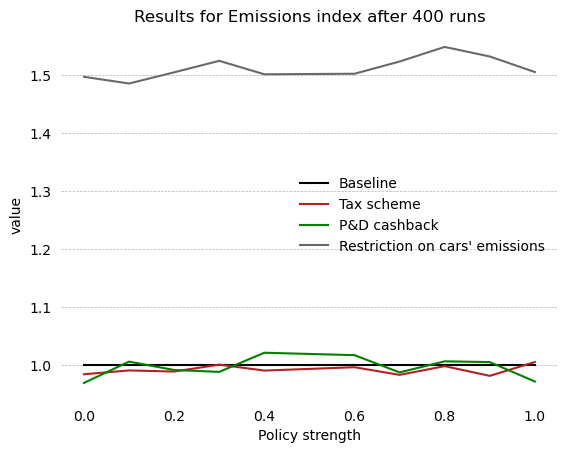
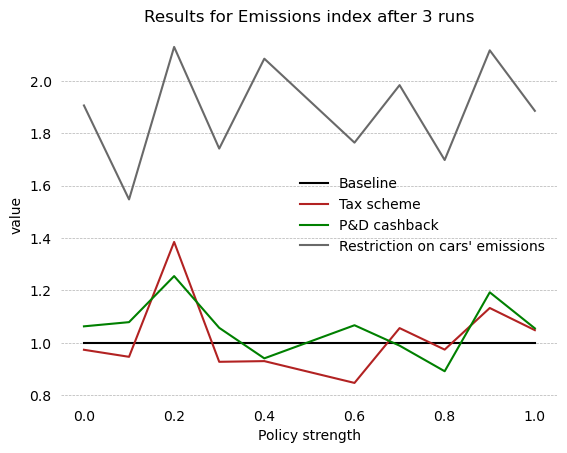
Adjusting e_max parameters: (2 processes: (a) limit sales, (b) discount or extra tax

diff --git a/main.py b/main.py
@@ -182,36 +182,36 @@ if __name__ == '__main__':
     save_data = True
     p = r'output'
     t0 = time.time()
-    m = 3
+    m = 100
     # Number of cpus that will run simultaneously
     cpus = 8
     # benchmark(m)
     t = datetime.datetime.utcnow().isoformat().replace(':', '_')
 
-    paramaters_to_test = {'prob_adoption': {'min': .2, 'max': .3, 'interval': 3, '_type': 'f'},
-                          'mu_max': {'min': .05, 'max': .2, 'interval': 4, '_type': 'f'},
-                          'rd_min': {'min': 10000, 'max': 90000, 'interval': 5, '_type': 'i'},
-                          'epsilon': {'min': .05, 'max': .2, 'interval': 3, '_type': 'f'},
-                          'omega': {'min': .3, 'max': .7, 'interval': 3, '_type': 'f'},
-                          'time_adoption': {'min': 5, 'max': 15, 'interval': 3, '_type': 'i'},
-                          'lambda': {'min': .05, 'max': .35, 'interval': 3, '_type': 'f'},
-                          'number_characteristics': {'min': 2, 'max': 5, 'interval': 4, '_type': 'i'}
-                          }
-
-    for param in paramaters_to_test:
-        sensitivity(param, paramaters_to_test[param]['min'],
-                    paramaters_to_test[param]['max'],
-                    paramaters_to_test[param]['interval'],
-                    paramaters_to_test[param]['_type'],
-                    p, t, m, cpus, save_data)
+    # paramaters_to_test = {'prob_adoption': {'min': .2, 'max': .3, 'interval': 3, '_type': 'f'},
+    #                       'mu_max': {'min': .05, 'max': .2, 'interval': 4, '_type': 'f'},
+    #                       'rd_min': {'min': 10000, 'max': 90000, 'interval': 5, '_type': 'i'},
+    #                       'epsilon': {'min': .05, 'max': .2, 'interval': 3, '_type': 'f'},
+    #                       'omega': {'min': .3, 'max': .7, 'interval': 3, '_type': 'f'},
+    #                       'time_adoption': {'min': 5, 'max': 15, 'interval': 3, '_type': 'i'},
+    #                       'lambda': {'min': .05, 'max': .35, 'interval': 3, '_type': 'f'},
+    #                       'number_characteristics': {'min': 2, 'max': 5, 'interval': 4, '_type': 'i'}
+    #                       }
+    #
+    # for param in paramaters_to_test:
+    #     sensitivity(param, paramaters_to_test[param]['min'],
+    #                 paramaters_to_test[param]['max'],
+    #                 paramaters_to_test[param]['interval'],
+    #                 paramaters_to_test[param]['_type'],
+    #                 p, t, m, cpus, save_data)
 
     # IF SENSITIVITY, UNCHECK THE NEXT LINE
     # sensitivity('number_characteristics', 2, 5, 4, 'i', p, t, m, cpus, save_data)
 
     # OTHERWISE, UNCHECK NEXT THREE LINES
-    # r, l, m = policies(p, t, m, cpus, save_data)
-    # if save_summary:
-    #     save_results_as_json(p, r)
-
-    # plot_policies(r, l, m)
+    r, l, m = policies(p, t, m, cpus, save_data)
+    if save_summary:
+        save_results_as_json(p, r)
+    #
+    plot_policies(r, l, m)
     print(f'This run took {time.time() - t0:.2f} seconds!')

diff --git a/params.py b/params.py
@@ -6,7 +6,7 @@ from numpy import linspace
 
 # Initiating time parameter
 T = 40
-num_firms = 8
+
 num_consumers = 2000
 # How many criteria to consider when buying a car
 number_characteristics = 2
@@ -71,7 +71,7 @@ br = {'min': 0, 'max': 1}
 # Fixed e_max
 levels = linspace(0, 1, 10)
 
-e_max = {round(levels[i], 1): round(v, 1) for i, v in enumerate(reversed(linspace(.1, .9, 10)))}
+e_max = {round(levels[i], 1): round(v, 4) for i, v in enumerate(linspace(1, .25, 10))}
 # IPI. Limited to 3%
 tax = {round(levels[i], 1): round(v, 4) for i, v in enumerate(linspace(0, .03, 10))}
 # Cash back P&D for companies' investments. Limited to 12.5%
@@ -85,7 +85,7 @@ freight = {'co': {'co': 143, 'ne': 440, 'n': 441, 'se': 232, 's': 273},
 
 
 def discount_tax_table(e_bench, my_e):
-    # e_bench é o valor geral no periodo anterior, my_e é o da firma
+    # e_bench é o valor geral no período anterior, my_e é o da firma
     # Also notice that given that no cars are sold (given market restrictions, emissions are 0)
     e = my_e/e_bench if e_bench > 0 else 0
     # Parameter support table to get discount or tax increase values

diff --git a/model.py b/model.py
@@ -164,7 +164,7 @@ class Simulation:
             self.report.loc[self.t, 'e'] = self.e
             self.log.info(f'Parameter e -- sold cars emission average -- is {sold_cars_emissions:.4f}')
             if self.policy['policy'] == 'e_max':
-                self.e_max = self.e * (1 + self.seed.uniform(0, self.params.e_max[self.policy['level']]))
+                self.e_max = self.e * (1 + self.params.e_max[self.policy['level']])
                 self.log.info(f'Max emission for time {self.t} is {self.e_max:.2f}')
             # When updating car prices, if policy is in effect, DISCOUNTS AND TAXES are summed and returned
             public_expenditure = defaultdict(float)
